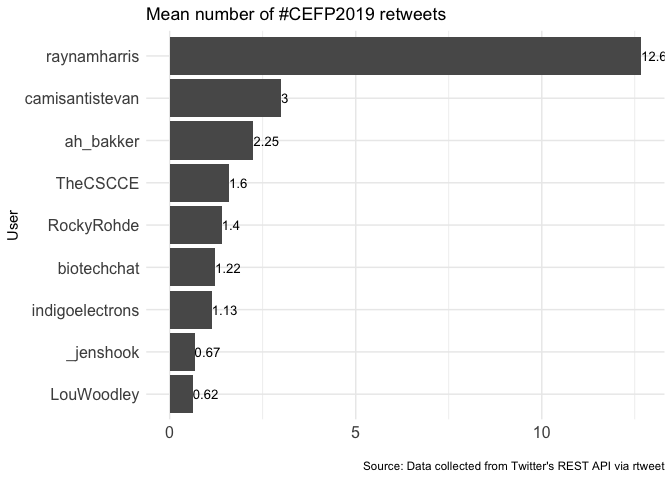
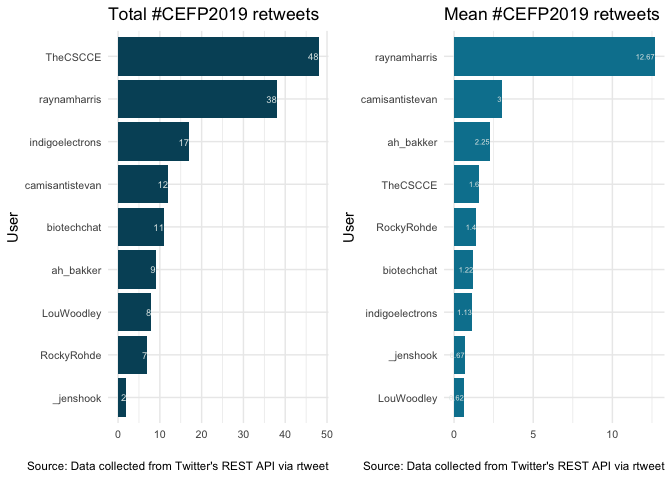
now with color and cowplot

diff --git a/dataviz/rtweets_CEFP2019.md b/dataviz/rtweets_CEFP2019.md
@@ -47,37 +47,43 @@ tweets were authored by **27** different particpants.
 <tr class="header">
 <th style="text-align: left;">screen_name</th>
 <th style="text-align: left;">text</th>
+<th style="text-align: right;">retweet_count</th>
 </tr>
 </thead>
 <tbody>
 <tr class="odd">
 <td style="text-align: left;">raynamharris</td>
 <td style="text-align: left;">This is a cool way to think about the stages conversation within communities. Early stages: one- or two-way conversations (convey and contribute). Later stages: collaboration and co-creation to generate novel ideas &amp; solutions to problems. From <span class="citation" data-cites="LouWoodley">@LouWoodley</span> at #CEFP2019 <span class="citation" data-cites="TheCSCCE">@TheCSCCE</span> <a href="https://t.co/OvOV1SoQ5r" class="uri">https://t.co/OvOV1SoQ5r</a></td>
+<td style="text-align: right;">34</td>
 </tr>
 <tr class="even">
 <td style="text-align: left;">indigoelectrons</td>
 <td style="text-align: left;">There’s a growing body of research showing cultural inclusivity &amp; better representation of #WomenInScience increases <em>success</em> (big term I know), as if we needed more reasons to dismantle the current system rife with inequality. <span class="citation" data-cites="sondy">@sondy</span> #CEFP2019 <a href="https://t.co/U6JJnzHCHy" class="uri">https://t.co/U6JJnzHCHy</a></td>
+<td style="text-align: right;">10</td>
 </tr>
 <tr class="odd">
 <td style="text-align: left;">camisantistevan</td>
 <td style="text-align: left;">Day 1 <span class="citation" data-cites="aaas">@aaas</span> #CEFP2019: defined community, met our #CEFP2017 mentors, learned about community participation guides, mapped 4 types of scientific communities, heard lightning talks by <span class="citation" data-cites="Baker_aquatic">@Baker_aquatic</span> <span class="citation" data-cites="quixoticroads">@quixoticroads</span> <span class="citation" data-cites="RockyRohde">@RockyRohde</span>, and drafted community overview statements! Also ☕ &amp;🍕 <a href="https://t.co/ezbvTgsYSH" class="uri">https://t.co/ezbvTgsYSH</a></td>
+<td style="text-align: right;">6</td>
 </tr>
 <tr class="even">
 <td style="text-align: left;">ah_bakker</td>
 <td style="text-align: left;">First day of #CEFP2019 is a wrap! I met some fantastic people, learned about different kinds of scientific communities, and was inspired by <span class="citation" data-cites="LouWoodley">@LouWoodley</span> speaking on different stages of community growth. Eager to continue the conversation tomorrow. <a href="https://t.co/aJpHscDVSX" class="uri">https://t.co/aJpHscDVSX</a></td>
+<td style="text-align: right;">6</td>
 </tr>
 <tr class="odd">
 <td style="text-align: left;">TheCSCCE</td>
 <td style="text-align: left;">Meet Kate Baker! She’s a Postdoctoral Research Fellow and Engagement Lead in the Centre for Water Systems at the University of Exeter, UK. You can find the fellows we’re highlighting today here: <a href="https://t.co/bUfG7fMKLB" class="uri">https://t.co/bUfG7fMKLB</a> <span class="citation" data-cites="Baker_aquatic">@Baker_aquatic</span> #CEFP2019 <a href="https://t.co/BpFVQ1I5SN" class="uri">https://t.co/BpFVQ1I5SN</a></td>
+<td style="text-align: right;">6</td>
 </tr>
 </tbody>
 </table>
 
 ### Which tweeters had the highest impact?
 
-![](rtweets_CEFP2019_figs/meanretweet-1.png)
-
 ![](rtweets_CEFP2019_figs/meanfav-1.png)
+
+![](rtweets_CEFP2019_figs/meanretweet-1.png)
 
 ### Acknowledgments
 
@@ -88,4 +94,6 @@ was adapted from François Michonneau’s
 that he used to create this [blog post about twitter statistics from
 Carpentry Con
 2018](https://carpentries.org/2018/06/carpentrycon-tweets). The
-[`rtweet` package](https://rtweet.info/) had excellent documentation.
+[`rtweet` package](https://rtweet.info/) had excellent documentation. I
+used [Image Color Picker](https://imagecolorpicker.com/) to obtain hex
+color codes following the CEFP color palette.
